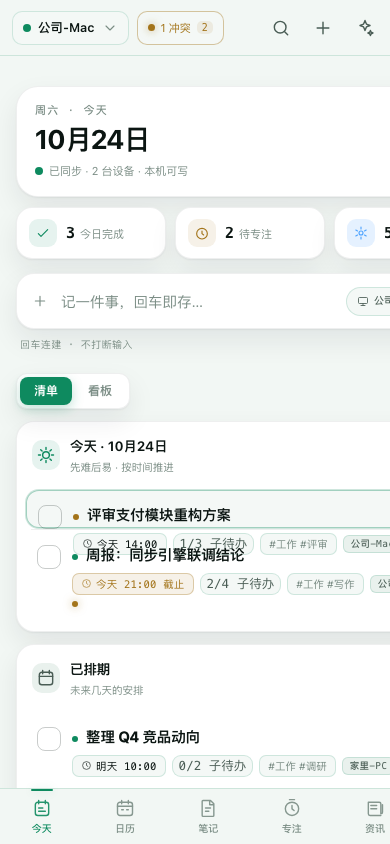
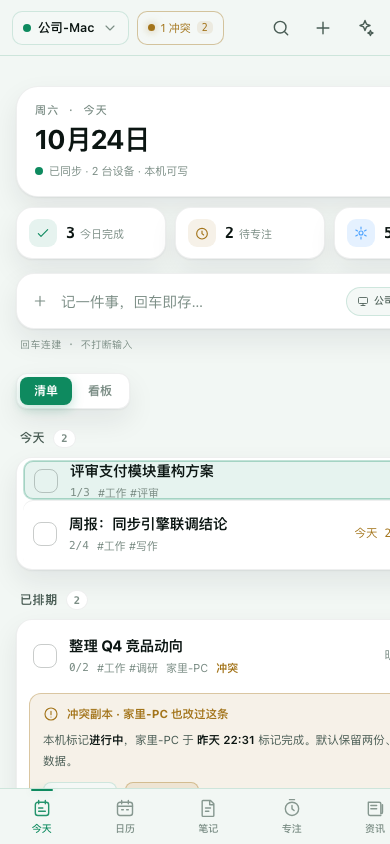
feat(prototype): 清单模式精简为安静列表
- 分组卡片外取消，改为小标题+计数胶囊+折叠；空组自动隐藏
- 任务行只留 勾选框+标题+右侧时间，其余信息降为灰色小字按需显示
- 发丝线分隔、行高 60px→40px、去掉行尾箭头
- 冲突状态在行内以小字标注

verify.mjs ALL_PASS

Changed region(s): [[0.0615, 0.4929, 1.0, 0.955]]

diff --git a/docs/prototype/index.html b/docs/prototype/index.html
@@ -971,6 +971,34 @@ body{
 .notes-wrap .nbcol .nb{background:var(--card);border:1px solid var(--card-line);box-shadow:var(--sh)}
 .notecol .notecard{background:var(--card);border:1px solid var(--card-line);box-shadow:var(--sh);border-radius:16px}
 .notes-wrap .editor{background:var(--card);border:1px solid var(--card-line);box-shadow:var(--sh);border-radius:18px}
+
+/* ═══════════ 清单模式：安静的分组列表（无卡片外壳/无冗余 chip） ═══════════ */
+.lgroup{margin-top:18px}
+.lhead{display:flex;align-items:center;gap:8px;padding:2px 4px 9px;cursor:pointer;user-select:none;-webkit-user-select:none}
+.lhead .lt{font-size:12px;font-weight:650;letter-spacing:.05em;color:var(--t2)}
+.lhead .ln{font:600 10.5px/1 var(--mono);color:var(--t3);padding:3.5px 7px;border-radius:999px;
+  background:var(--card);border:1px solid var(--card-line)}
+.lhead .lchev{width:14px;height:14px;color:var(--t3);transition:transform var(--t-mid) var(--ease-out)}
+.lgroup.collapsed .lchev{transform:rotate(-90deg)}
+.lgroup.collapsed .lbody{display:none}
+.lbody{background:var(--card);border:1px solid var(--card-line);border-radius:16px;box-shadow:var(--sh);padding:2px 6px;overflow:hidden}
+.lbody .trow{display:flex;align-items:center;gap:12px;padding:13px 10px;border-radius:10px;cursor:pointer;position:relative}
+.lbody .trow + .trow{box-shadow:inset 0 1px 0 var(--card-line)}
+.lbody .trow:hover{background:color-mix(in srgb,var(--s2) 55%,transparent)}
+.lbody .trow.sel{background:var(--acc-soft);box-shadow:inset 0 0 0 1px color-mix(in srgb,var(--acc) 30%,transparent)}
+.lbody .trow .tbody{flex:1;min-width:0}
+.lbody .trow .tt{display:block;font-size:14.5px;font-weight:520;line-height:1.45;color:var(--t1);
+  overflow:hidden;text-overflow:ellipsis;white-space:nowrap}
+.lbody .trow .tmeta{display:flex;align-items:center;gap:8px;margin-top:3px}
+.lbody .trow .tmeta:empty{display:none}
+.tmi{font-size:11px;color:var(--t3);white-space:nowrap}
+.tmi.twarn{color:var(--warn);font-weight:600}
+.twhen{flex:0 0 auto;font-size:11.5px;color:var(--t3);white-space:nowrap}
+.twhen.due{color:var(--warn)}
+.lbody .trow.high .tt{font-weight:600}
+.lbody .trow.done .tt{color:var(--t3);text-decoration:line-through;text-decoration-thickness:1.2px}
+.lbody .trow.done .twhen{color:var(--t3)}
+.lempty{padding:22px 10px;text-align:center;font-size:11.5px;color:var(--t3)}
 </style>
 </head>
 <body class="dsh" data-skin="moss" data-light="1">
@@ -1712,10 +1740,10 @@ const IC = {
   spark:'<svg class="ic sm" viewBox="0 0 24 24"><path d="M12 3l1.7 4.3L18 9l-4.3 1.7L12 15l-1.7-4.3L6 9l4.3-1.7z"/></svg>',
 };
 const GROUPS = [
-  { k:'today', label:'今天 · 10月24日', sub:'先难后易 · 按时间推进', icon:IC.sun, tone:'' },
-  { k:'scheduled', label:'已排期', sub:'未来几天的安排', icon:IC.cal, tone:'mut' },
-  { k:'inbox', label:'收件箱', sub:'还没排时间 · 稍后整理', icon:IC.inbox, tone:'mut' },
-  { k:'done', label:'已完成', sub:'点右上进度可一键清理', icon:IC.check, tone:'mut' },
+  { k:'today', label:'今天', sub:'', icon:IC.sun, tone:'' },
+  { k:'scheduled', label:'已排期', sub:'', icon:IC.cal, tone:'mut' },
+  { k:'inbox', label:'收件箱', sub:'', icon:IC.inbox, tone:'mut' },
+  { k:'done', label:'已完成', sub:'', icon:IC.check, tone:'mut' },
 ];
 
 const WEEK_EVENTS = [
@@ -1895,19 +1923,18 @@ function renderTasks() {
   const list = $('#taskList');
   list.innerHTML = GROUPS.map(g => {
     const items = TASKS.filter(t => t.group === g.k && taskMatches(t));
+    if (items.length === 0 && g.k !== 'today') return '';
     return `
-    <section class="tgroup">
-      <div class="gcard ${state.collapsed[g.k] ? 'collapsed' : ''}">
-        <div class="ghead" data-act="group-toggle" data-k="${g.k}">
-          <span class="gi ${g.tone}">${g.icon}</span>
-          <span style="min-width:0"><span class="gt">${g.label}</span><span class="gs">${g.sub}</span></span>
-          <span class="gn mono">${items.length} 项</span>
-          <svg class="gchev" viewBox="0 0 24 24" fill="none" stroke="currentColor" stroke-width="1.7" stroke-linecap="round"><path d="M6 9l6 6 6-6"/></svg>
-        </div>
-        <div class="gbody">${items.length
-          ? items.map((t, i) => taskRowHTML(t) + (i < items.length - 1 ? '<div class="gsep"></div>' : '')).join('')
-          : `<div class="gempty">${g.k === 'done' ? '完成的任务会归到这里。<br>点右上进度可以一键清理。' : '这一组暂时是空的。<br>用上方输入框记一件事…'}</div>`}</div>
+    <section class="lgroup ${state.collapsed[g.k] ? 'collapsed' : ''}">
+      <div class="lhead" data-act="group-toggle" data-k="${g.k}">
+        <span class="lt">${g.label}</span>
+        <span class="ln mono">${items.length}</span>
+        <span class="sp"></span>
+        <svg class="lchev" viewBox="0 0 24 24" fill="none" stroke="currentColor" stroke-width="1.7" stroke-linecap="round"><path d="M6 9l6 6 6-6"/></svg>
       </div>
+      <div class="lbody">${items.length
+        ? items.map(t => taskRowHTML(t)).join('')
+        : '<div class="lempty">今天还没有安排 · 用上方输入框记一件</div>'}</div>
     </section>`;
   }).join('');
   // 看板
@@ -1933,21 +1960,21 @@ function renderTasks() {
 function taskRowHTML(t) {
   const subDone = t.sub.filter(s => s.done).length;
   return `
-  <div class="trow ${t.done ? 'done' : ''} ${state.selTask === t.id ? 'sel' : ''}" data-task="${t.id}">
+  <div class="trow ${t.done ? 'done' : ''} ${state.selTask === t.id ? 'sel' : ''} ${t.pri === '高' ? 'high' : ''}" data-task="${t.id}">
     <button class="check ${t.done ? 'on' : ''}" data-act="toggle" data-id="${t.id}" aria-label="完成">
       <svg class="ic" viewBox="0 0 24 24"><path d="M5 13l4 4L19 7"/></svg>
     </button>
     <div class="tbody">
-      <div class="tt"><span class="pri" style="background:var(${PRI_VAR[t.pri]})"></span><span class="tx">${esc(t.title)}</span></div>
+      <div class="tt"><span class="tx">${esc(t.title)}</span></div>
       <div class="tmeta">
-        <span class="mchip mono time ${/截止/.test(t.when) ? 'due' : ''}">${IC.clock}${esc(t.when)}</span>
-        ${t.sub.length ? `<span class="mchip sub">${subDone}/${t.sub.length} 子待办</span>` : ''}
-        ${t.tags.length ? `<span class="mchip tag">#${t.tags.join(' #')}</span>` : ''}
-        <span class="devbadge ${t.dev === '仅本机' ? 'me' : ''}">${t.dev}</span>
-        ${t.sync ? '<span class="syncdot" title="待同步"></span>' : ''}
+        ${t.sub.length ? `<span class="tmi mono">${subDone}/${t.sub.length}</span>` : ''}
+        ${t.tags.length ? `<span class="tmi ttag">#${t.tags.join(' #')}</span>` : ''}
+        ${t.dev !== '公司-Mac' ? `<span class="tmi tdev">${t.dev}</span>` : ''}
+        ${t.conflict && !t.conflictResolved ? '<span class="tmi twarn">冲突</span>' : ''}
       </div>
     </div>
-    <svg class="rowgo" viewBox="0 0 24 24" fill="none" stroke="currentColor" stroke-width="1.8" stroke-linecap="round"><path d="M10 6l6 6-6 6"/></svg>
+    <span class="twhen mono ${/截止|逾期/.test(t.when) ? 'due' : ''}">${esc(t.when)}</span>
+    ${t.sync ? '<span class="syncdot" title="待同步"></span>' : ''}
   </div>
   ${t.conflict ? conflictCardHTML(t) : ''}`;
 }
